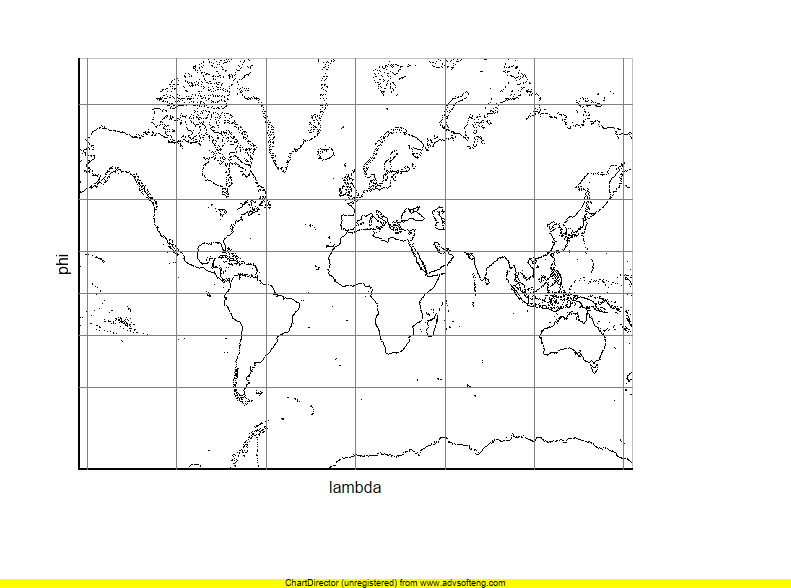
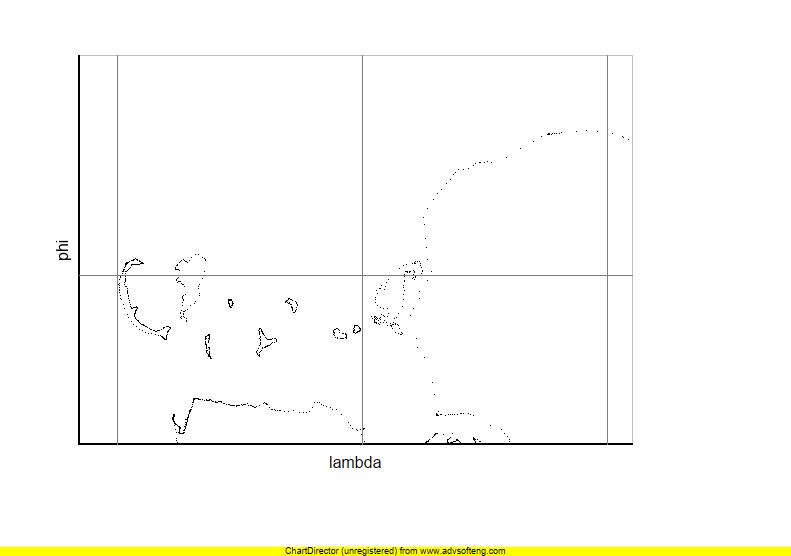
Fixed bug

diff --git a/lib_gui.h b/lib_gui.h
@@ -894,7 +894,7 @@ void DrawPane::Draw(void){
     File world;
     stringstream line_ins;
     string line;
-    double *x, *y, lambda, phi, x_dummy, y_dummy, dummy, phi_span, lambda_span;
+    double *x, *y, lambda, phi, x_dummy, y_dummy, phi_span, lambda_span;
     int i;
     unsigned int /*this is the number of geographical points on the map which will fall in the plot rectangle (x_min , x_max) x (y_min, y_max)*/number_of_points;
     
@@ -1039,7 +1039,7 @@ void DrawPane::Draw(void){
         
         y_dummy = y_mercator(phi);
         
-        if((y_dummy > y_min) && (y_dummy <= x_max)){
+        if((y_dummy >= y_min) && (y_dummy <= y_max)){
             
             c->addLine(
                        (position_plot_area.x),
